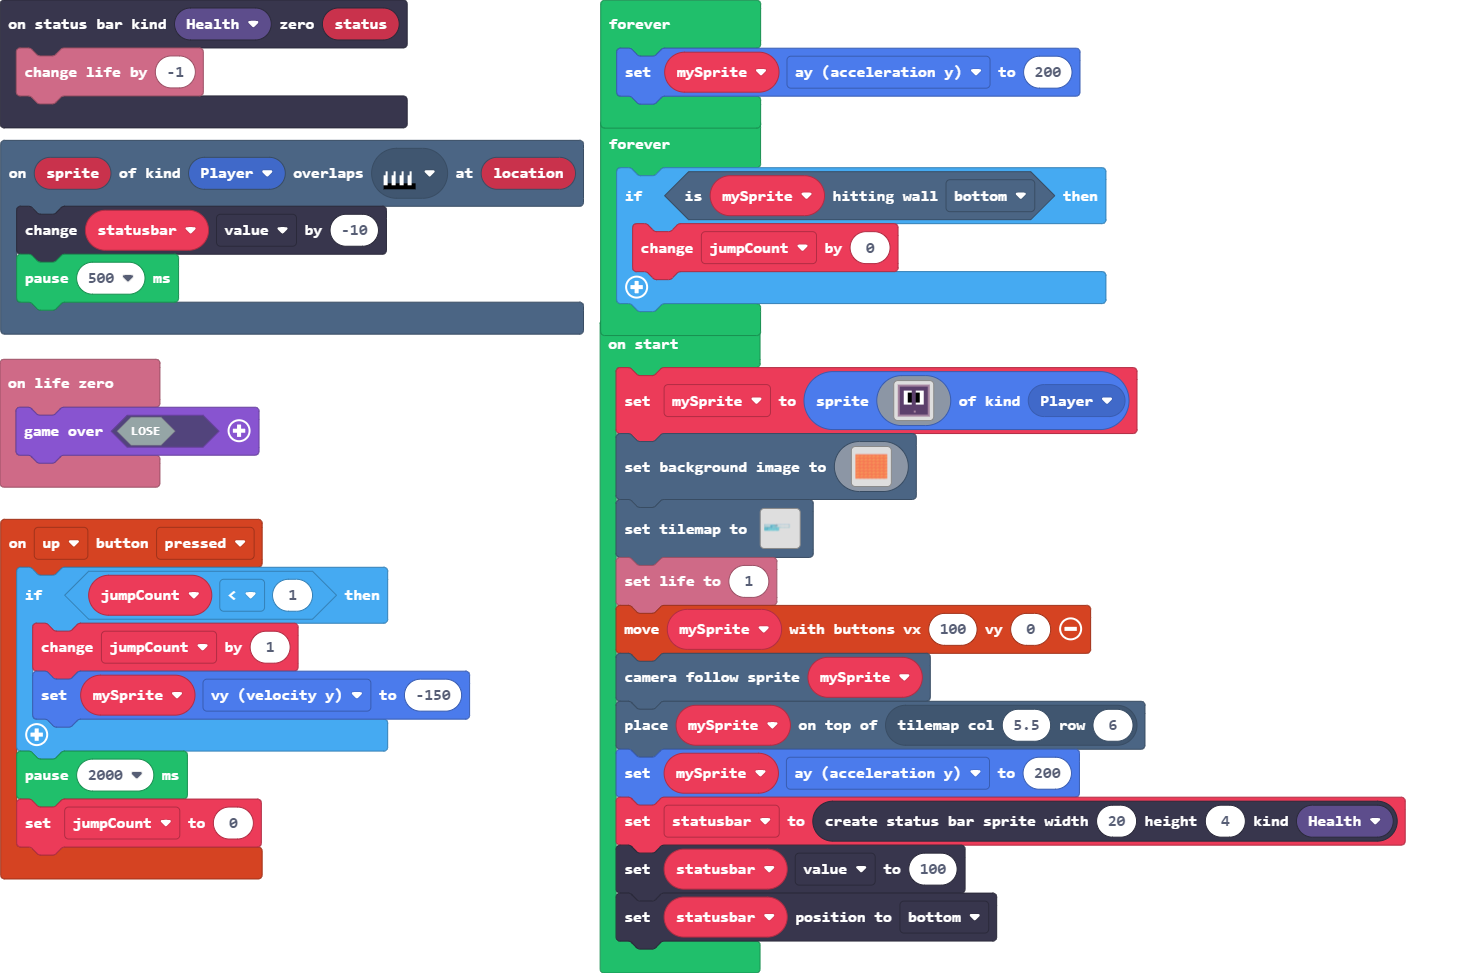
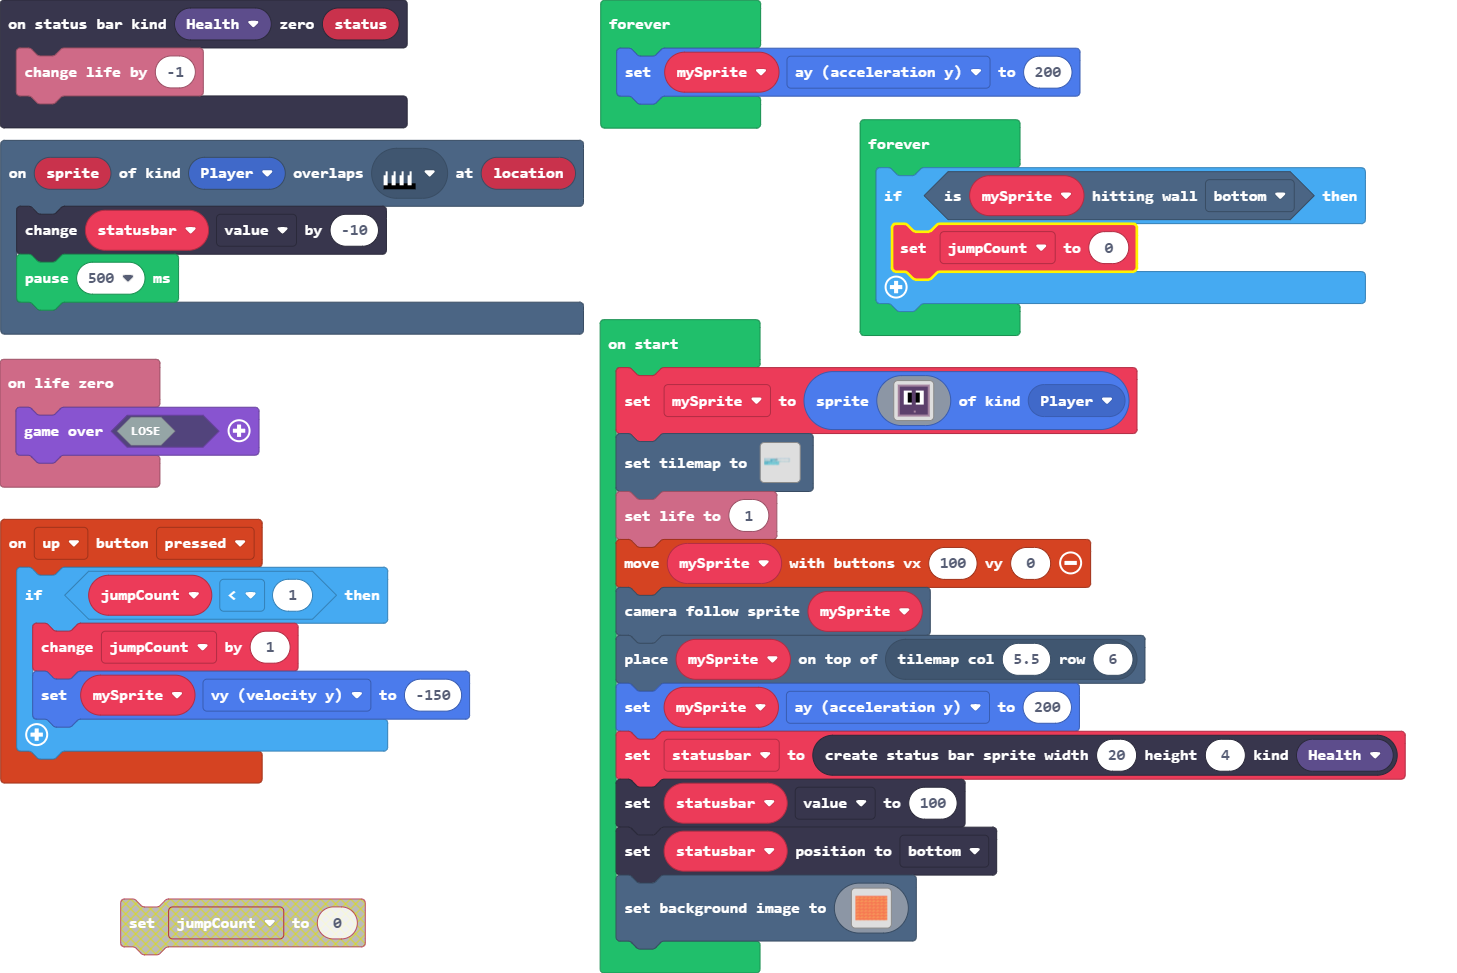
fixed jumpcount

Changed region(s): [[0.4015, 0.4317, 0.9883, 0.9866], [0.4015, 0.1233, 0.9574, 0.37], [0.0, 0.7708, 0.278, 0.9866]]

diff --git a/tilemap.g.ts b/tilemap.g.ts
@@ -344,6 +344,63 @@ namespace myTiles {
 . . . . . . . . . . . . . . . . 
 . . . . . . . . . . . . . . . . 
 `, [myTiles.transparency16], TileScale.Sixteen);
+            case "level12":
+            case "level12":return tiles.createTilemap(hex`1000100000000000000000000000000000000000000000000000000000000000000000000000000000000000000000000000000000000000000000000000000000000000000000000000000000000000000000000000000000000000000000000000000000000000000000000000000000000000000000000000000000000000000000000000000000000000000000000000000000000000000000000000000000000000000000000000000000000000000000000000000000000000000000000000000000000000000000000000000000000000000000000000000000000000000000000000000000000000000000000000000000000000000000000000000000000000`, img`
+. . . . . . . . . . . . . . . . 
+. . . . . . . . . . . . . . . . 
+. . . . . . . . . . . . . . . . 
+. . . . . . . . . . . . . . . . 
+. . . . . . . . . . . . . . . . 
+. . . . . . . . . . . . . . . . 
+. . . . . . . . . . . . . . . . 
+. . . . . . . . . . . . . . . . 
+. . . . . . . . . . . . . . . . 
+. . . . . . . . . . . . . . . . 
+. . . . . . . . . . . . . . . . 
+. . . . . . . . . . . . . . . . 
+. . . . . . . . . . . . . . . . 
+. . . . . . . . . . . . . . . . 
+. . . . . . . . . . . . . . . . 
+. . . . . . . . . . . . . . . . 
+`, [myTiles.transparency16], TileScale.Sixteen);
+            case "level13":
+            case "level13":return tiles.createTilemap(hex`1000100000000000000000000000000000000000000000000000000000000000000000000000000000000000000000000000000000000000000000000000000000000000000000000000000000000000000000000000000000000000000000000000000000000000000000000000000000000000000000000000000000000000000000000000000000000000000000000000000000000000000000000000000000000000000000000000000000000000000000000000000000000000000000000000000000000000000000000000000000000000000000000000000000000000000000000000000000000000000000000000000000000000000000000000000000000000`, img`
+. . . . . . . . . . . . . . . . 
+. . . . . . . . . . . . . . . . 
+. . . . . . . . . . . . . . . . 
+. . . . . . . . . . . . . . . . 
+. . . . . . . . . . . . . . . . 
+. . . . . . . . . . . . . . . . 
+. . . . . . . . . . . . . . . . 
+. . . . . . . . . . . . . . . . 
+. . . . . . . . . . . . . . . . 
+. . . . . . . . . . . . . . . . 
+. . . . . . . . . . . . . . . . 
+. . . . . . . . . . . . . . . . 
+. . . . . . . . . . . . . . . . 
+. . . . . . . . . . . . . . . . 
+. . . . . . . . . . . . . . . . 
+. . . . . . . . . . . . . . . . 
+`, [myTiles.transparency16], TileScale.Sixteen);
+            case "level14":
+            case "level14":return tiles.createTilemap(hex`1000100000000000000000000000000000000000000000000000000000000000000000000000000000000000000000000000000000000000000000000000000000000000000000000000000000000000000000000000000000000000000000000000000000000000000000000000000000000000000000000000000000000000000000000000000000000000000000000000000000000000000000000000000000000000000000000000000000000000000000000000000000000000000000000000000000000000000000000000000000000000000000000000000000000000000000000000000000000000000000000000000000000000000000000000000000000000`, img`
+. . . . . . . . . . . . . . . . 
+. . . . . . . . . . . . . . . . 
+. . . . . . . . . . . . . . . . 
+. . . . . . . . . . . . . . . . 
+. . . . . . . . . . . . . . . . 
+. . . . . . . . . . . . . . . . 
+. . . . . . . . . . . . . . . . 
+. . . . . . . . . . . . . . . . 
+. . . . . . . . . . . . . . . . 
+. . . . . . . . . . . . . . . . 
+. . . . . . . . . . . . . . . . 
+. . . . . . . . . . . . . . . . 
+. . . . . . . . . . . . . . . . 
+. . . . . . . . . . . . . . . . 
+. . . . . . . . . . . . . . . . 
+. . . . . . . . . . . . . . . . 
+`, [myTiles.transparency16], TileScale.Sixteen);
         }
         return null;
     })

diff --git a/main.ts b/main.ts
@@ -3,8 +3,6 @@ controller.up.onEvent(ControllerButtonEvent.Pressed, function () {
         jumpCount += 1
         mySprite.vy = -150
     }
-    pause(2000)
-    jumpCount = 0
 })
 scene.onOverlapTile(SpriteKind.Player, assets.tile`myTile12`, function (sprite, location) {
     statusbar.value += -10
@@ -20,6 +18,15 @@ let jumpCount = 0
 let statusbar: StatusBarSprite = null
 let mySprite: Sprite = null
 mySprite = sprites.create(assets.image`myImage7`, SpriteKind.Player)
+tiles.setTilemap(tilemap`01_level_One1`)
+info.setLife(1)
+controller.moveSprite(mySprite, 100, 0)
+scene.cameraFollowSprite(mySprite)
+tiles.placeOnTile(mySprite, tiles.getTileLocation(5.5, 6))
+mySprite.ay = 200
+statusbar = statusbars.create(20, 4, StatusBarKind.Health)
+statusbar.value = 100
+statusbar.positionDirection(CollisionDirection.Bottom)
 scene.setBackgroundImage(img`
     2222222222222222222222222222222222222222222222222222222222222222222222222222222222222222222222222222222222222222222222222222222222222222222222222222222222222222
     2444444444444444444224444444444444444442244444444444444444422444444444444444444244444444444444444422444444444444444444224444444444444444442244444444444444444422
@@ -142,20 +149,11 @@ scene.setBackgroundImage(img`
     2424422222444444444424244222224444444444242442222244444444442424422222444444444242442222244444444442424422222444444444424244222224444444444242442222244444444442
     2424422444444444444424244224444444444444242442244444444444442424422444444444444242442244444444444442424422444444444444424244224444444444444242442244444444444442
     `)
-tiles.setTilemap(tilemap`01_level_One1`)
-info.setLife(1)
-controller.moveSprite(mySprite, 100, 0)
-scene.cameraFollowSprite(mySprite)
-tiles.placeOnTile(mySprite, tiles.getTileLocation(5.5, 6))
-mySprite.ay = 200
-statusbar = statusbars.create(20, 4, StatusBarKind.Health)
-statusbar.value = 100
-statusbar.positionDirection(CollisionDirection.Bottom)
 forever(function () {
     mySprite.ay = 200
 })
 forever(function () {
     if (mySprite.isHittingTile(CollisionDirection.Bottom)) {
-        jumpCount += 0
+        jumpCount = 0
     }
 })
